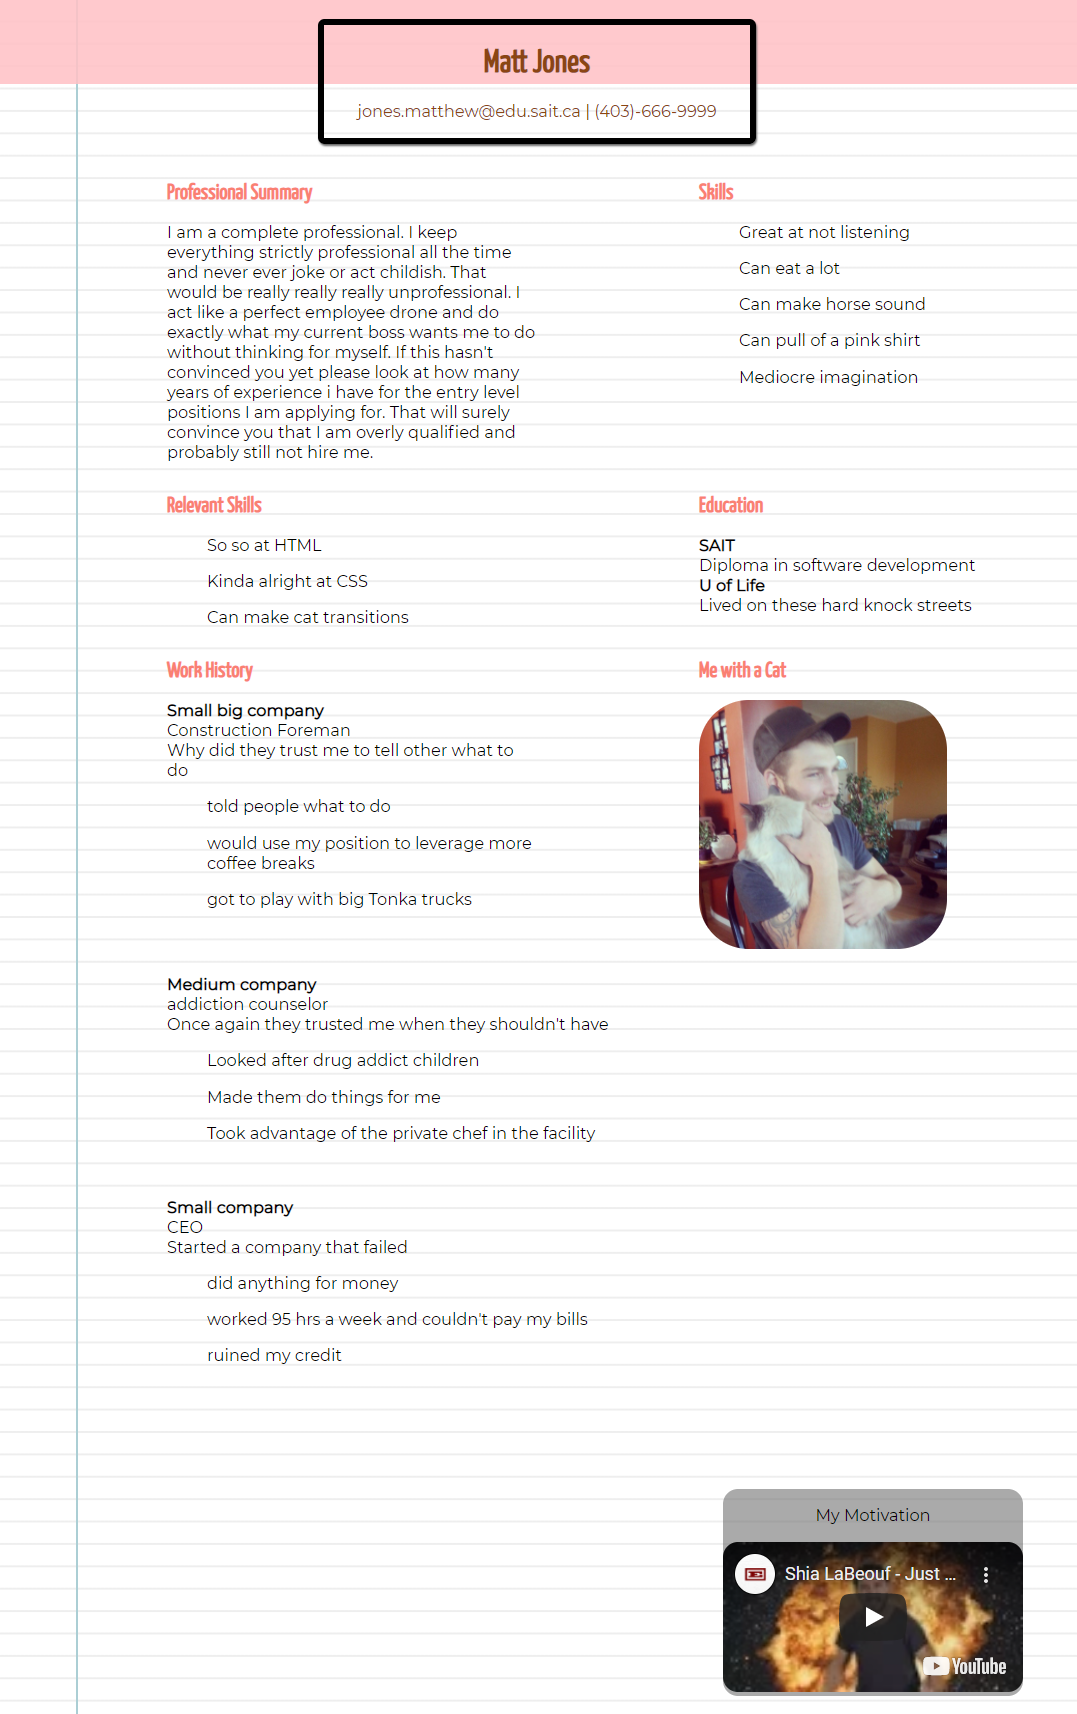
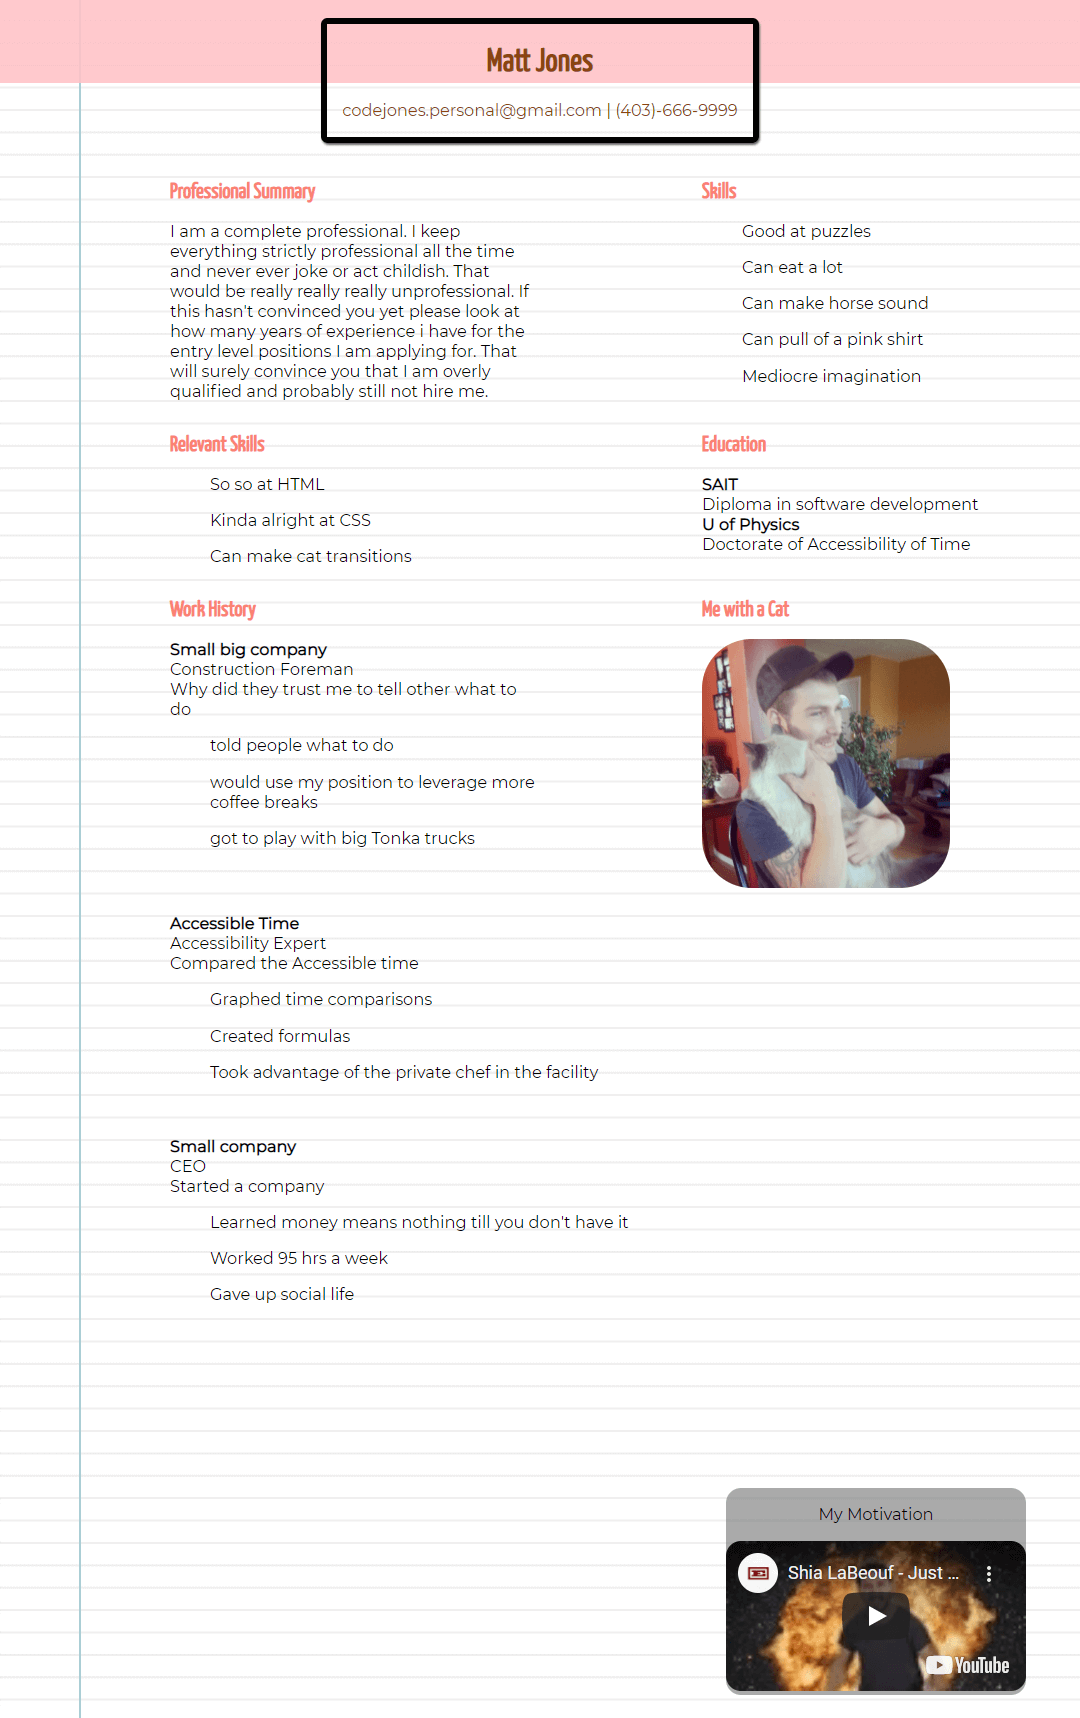
Cleaned up bad jokes

diff --git a/Resume template/index.html b/Resume template/index.html
@@ -14,7 +14,7 @@
     </div>
     <div class="title">
         <h1>Matt Jones</h1>
-        <p> jones.matthew@edu.sait.ca | (403)-666-9999</p>
+        <p> codejones.personal@gmail.com | (403)-666-9999</p>
     </div>
 
     <div class="do_it_box">
@@ -29,14 +29,13 @@
         <div class="column">
             <h2>Professional Summary</h2>
             <p>I am a complete professional. I keep everything strictly professional all the time and never ever joke or
-                act childish. That would be really really really unprofessional. I act like a perfect employee drone and
-                do exactly what my current boss wants me to do without thinking for myself. If this hasn't convinced you
+                act childish. That would be really really really unprofessional. If this hasn't convinced you
                 yet please look at how many years of experience i have for the entry level positions I am applying for.
                 That will surely convince you that I am overly qualified and probably still not hire me.</p>
         </div>
         <div class="column">
             <h2>Skills</h2>
-            <ul>Great at not listening</ul>
+            <ul>Good at puzzles</ul>
             <ul>Can eat a lot</ul>
             <ul>Can make horse sound</ul>
             <ul>Can pull of a pink shirt</ul>
@@ -54,8 +53,8 @@
             <h2>Education</h2>
             <p><b>SAIT</b><br>
                 Diploma in software development<br>
-                <b>U of Life</b><br>
-                Lived on these hard knock streets
+                <b>U of Physics</b><br>
+                Doctorate of Accessibility of Time
             </p>
         </div>
     </div>
@@ -76,20 +75,20 @@
     </div>
 </div>
 <div class="column_left">
-    <p><b>Medium company</b><br>addiction counselor<br>
-        Once again they trusted me when they shouldn't have<br>
+    <p><b>Accessible Time</b><br>Accessibility Expert<br>
+        Compared the Accessible time<br>
     </p>
-    <ul>Looked after drug addict children</ul>
-    <ul>Made them do things for me</ul>
+    <ul>Graphed time comparisons</ul>
+    <ul>Created formulas</ul>
     <ul>Took advantage of the private chef in the facility</ul>
 </div>
 <div class="column_left">
-    <p><b>Small company</b><br> CEO<br>
-        Started a company that failed<br>
+    <p><b>Small company</b><br>CEO<br>
+        Started a company<br>
     </p>
-    <ul>did anything for money</ul>
-    <ul>worked 95 hrs a week and couldn't pay my bills</ul>
-    <ul>ruined my credit</ul>
+    <ul>Learned money means nothing till you don't have it</ul>
+    <ul>Worked 95 hrs a week</ul>
+    <ul>Gave up social life</ul>
 </div>
 </body>
 </html>
